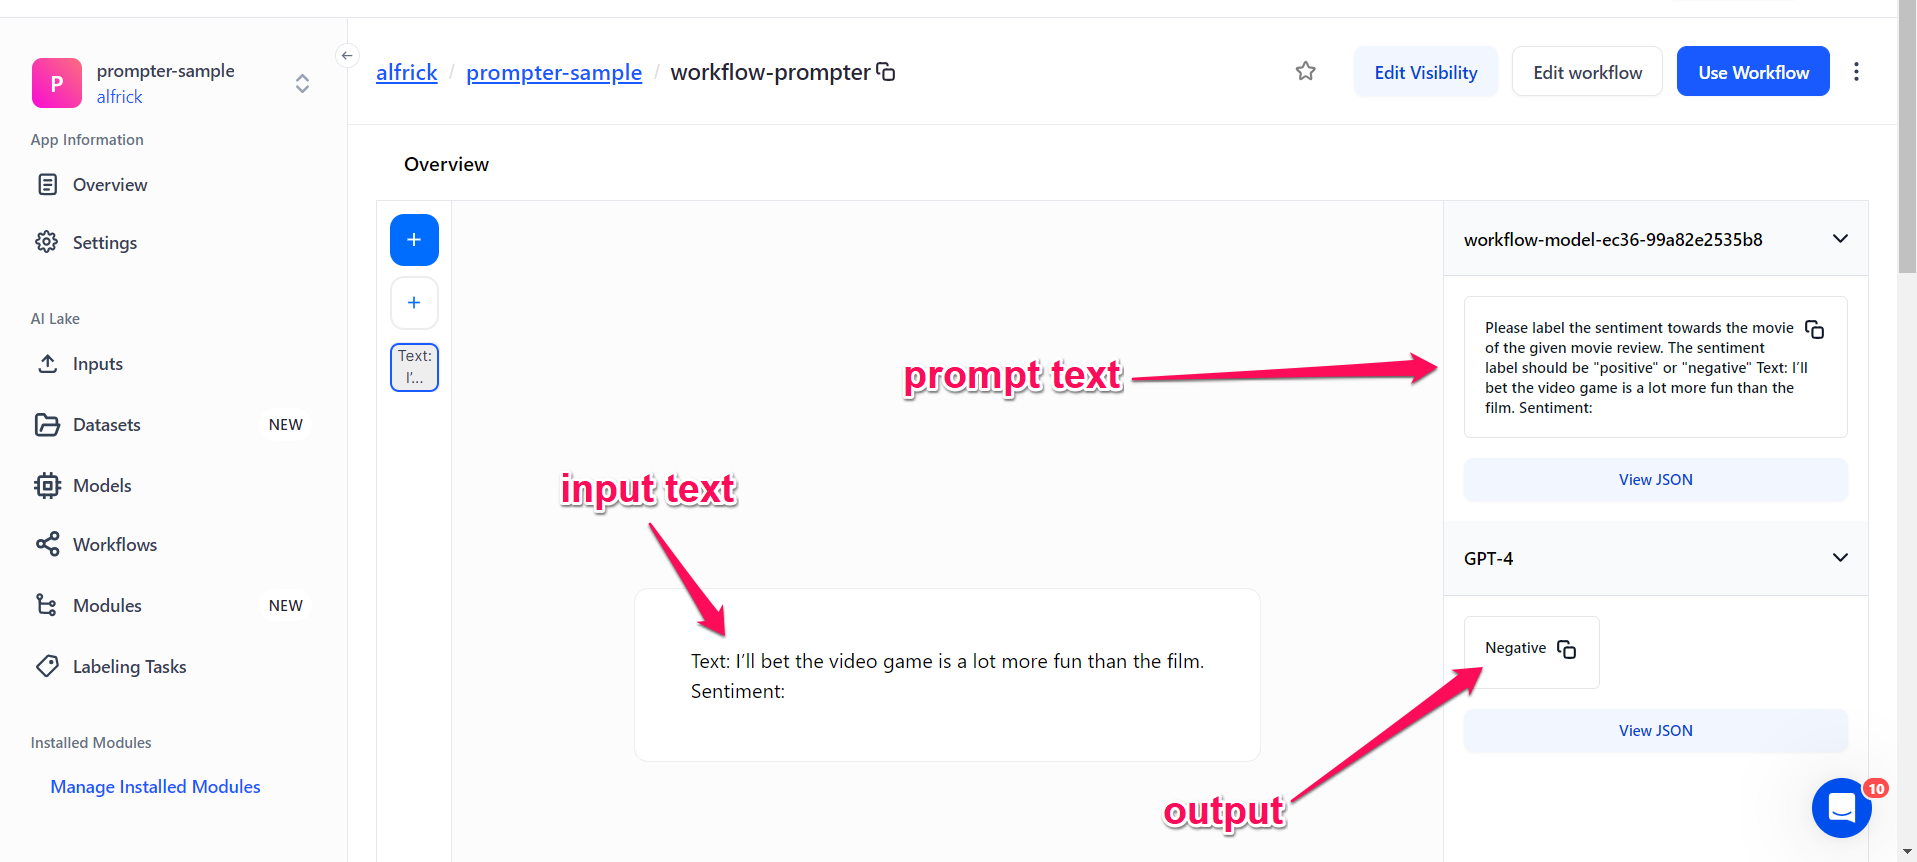
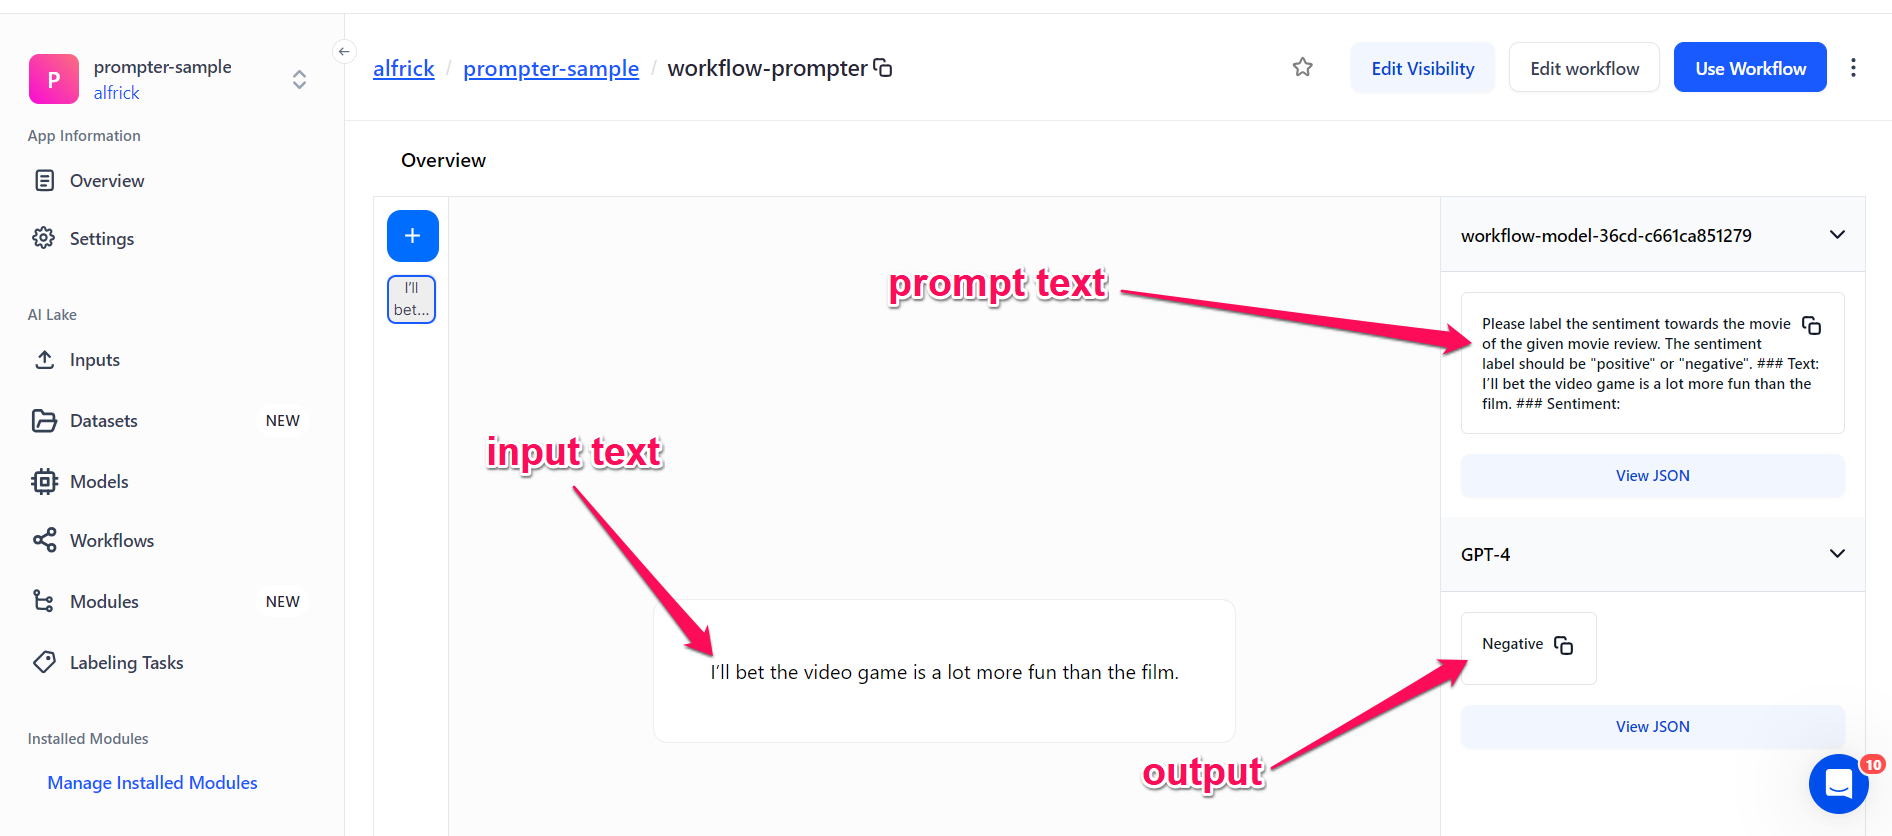
DOC-387 <updated prompter page>

diff --git a/docs/portal-guide/model/agent-system-operators/prompter.md b/docs/portal-guide/model/agent-system-operators/prompter.md
@@ -39,12 +39,16 @@ Your prompt template should include at least one instance of the placeholder `{d
 **2.** Use the pop-up that appears on the right-hand sidebar to define the template text. For this example, let’s use the following text: 
 
 ```
-Please label the sentiment towards the movie of the given movie review. The sentiment label should be "positive" or "negative" {data.text.raw}
+Please label the sentiment towards the movie of the given movie review. The sentiment label should be "positive" or "negative". ### Text: {data.text.raw} ### Sentiment: 
 ```
 
 ![zero-shot prompting](/img/agent-system-operators/prompter_1.png)
 
-Note that we also include the `{data.text.raw}` placeholder to meet the requirements of the **Prompter** template.
+Note that:
+
+- The template text is a single-line statement.
+- We included the `{data.text.raw}` placeholder to meet the requirements of the **Prompter** template.
+- We placed the instructions at the beginning of the template text and used the ["###" delimiter](https://docs.clarifai.com/portal-guide/model/model-types/text-to-text/#training-data) to separate the instruction and context. The delimiter is important when giving instructions to llms because it signifies the beginning and end of different sections within the text. This ensures clarity and facilitates easy parsing and processing during the prediction phase.
 
 **3.** You can then connect the prompter model to a text-to-text model like [GPT-4](https://clarifai.com/openai/chat-completion/models/GPT-4).
 
@@ -55,8 +59,7 @@ To observe it in action, navigate to the workflow's individual page and click th
 For example, you could input the following as your input text:
 
 ```
-Text: I’ll bet the video game is a lot more fun than the film.
-Sentiment: 
+I’ll bet the video game is a lot more fun than the film
 ``` 
 
 Click the **Submit** button.
@@ -66,7 +69,7 @@ Once the model has completed processing your input, you'll see the results, star
 In this case, the prompt text becomes:
 
 ```
-Please label the sentiment towards the movie of the given movie review. The sentiment label should be "positive" or "negative" Text: I’ll bet the video game is a lot more fun than the film. Sentiment: 
+Please label the sentiment towards the movie of the given movie review. The sentiment label should be "positive" or "negative". ### Text: I’ll bet the video game is a lot more fun than the film. ### Sentiment: 
 ```
 
 And the output becomes:
@@ -74,7 +77,9 @@ And the output becomes:
 ```
 Negative
 ```
+
 ![zero-shot prompting output](/img/agent-system-operators/prompter_2.png)
+
 
 Note that in the above zero-shot prompt, we did not give the model any examples of text alongside their classifications. The model already knows what "sentiment" means without needing any extra information—that's how its zero-shot abilities work. 
 
@@ -88,12 +93,6 @@ For example, few-shot prompting can be used to train an LLM to classify new type
 
 Let’s demonstrate how you can create a few-shot prompter on the [workflow builder](https://docs.clarifai.com/portal-guide/workflows/workflow-builder/) for a text classification task. 
 
-:::tip
-
-Your prompt template should include at least one instance of the placeholder `{data.text.raw}`. When you input your text data at inference time, all occurrences of `{data.text.raw}` within the template will be replaced with the provided text.
-
-:::
-
 **1.** Search for the **Prompter** template option in the left-hand sidebar of the workflow builder and drag it onto the empty workspace.
 
 **2.** Use the pop-up that appears on the right-hand sidebar to define the template text.
@@ -101,20 +100,12 @@ Your prompt template should include at least one instance of the placeholder `{d
 For this example, let’s use the following text:
 
 ```
-Please label the sentiment towards the movie of the given movie review. The sentiment label should be "positive" or "negative".
-Text: (lawrence bounces) all over the stage, dancing, running, sweating, mopping his face and generally displaying the wacky talent that brought him fame in the first place.
-Sentiment: positive
-
-Text: despite all evidence to the contrary, this clunker has somehow managed to pose as an actual feature movie, the kind that charges full admission and gets hyped on tv and purports to amuse small children and ostensible adults.
-Sentiment: negative
-
-Text: for the first time in years, de niro digs deep emotionally, perhaps because he's been stirred by the powerful work of his co-stars.
-Sentiment: positive
-\n{data.text.raw}
+Please label the sentiment towards the movie of the given movie review. The sentiment label should be "positive" or "negative". ### Text: (lawrence bounces) all over the stage, dancing, running, sweating, mopping his face and generally displaying the wacky talent that brought him fame in the first place. ### Sentiment: positive. ### Text: Despite all evidence to the contrary, this clunker has somehow managed to pose as an actual feature movie, the kind that charges full admission and gets hyped on tv and purports to amuse small children and ostensible adults. ### Sentiment: negative. ### Text: For the first time in years, de niro digs deep emotionally, perhaps because he's been stirred by the powerful work of his co-stars. ### Sentiment: positive. ### Text: {data.text.raw} ### Sentiment:
 ```
+
 ![few-shot prompting](/img/agent-system-operators/prompter_4.png)
 
-Note that we also include the `{data.text.raw}` placeholder to meet the requirements of the **Prompter** template.
+Note that just like in the zero-shot prompting example above, we included the `{data.text.raw}` placeholder and the "###" delimiter in the template text. 
 
 **3.** You can then connect the prompter model to a text-to-text model like [GPT-4](https://clarifai.com/openai/chat-completion/models/GPT-4).
 
@@ -125,8 +116,7 @@ To observe it in action, navigate to the workflow's individual page and click th
 For example, you could input the following as your input text:
 
 ```
-Text: I'll bet the video game is a lot more fun than the film.
-Sentiment:
+I'll bet the video game is a lot more fun than the film
 ```
 Click the **Submit** button.
 
@@ -135,13 +125,14 @@ Once the model has completed processing your input, you'll see the results, star
 In this case, the prompter text becomes:
 
 ```
-Please label the sentiment towards the movie of the given movie review. The sentiment label should be "positive" or "negative". Text: (lawrence bounces) all over the stage, dancing, running, sweating, mopping his face and generally displaying the wacky talent that brought him fame in the first place. Sentiment: positive Text: despite all evidence to the contrary, this clunker has somehow managed to pose as an actual feature movie, the kind that charges full admission and gets hyped on tv and purports to amuse small children and ostensible adults. Sentiment: negative Text: for the first time in years, de niro digs deep emotionally, perhaps because he''s been stirred by the powerful work of his co-stars. Sentiment: positive \nText: I'll bet the video game is a lot more fun than the film. Sentiment:
+Please label the sentiment towards the movie of the given movie review. The sentiment label should be "positive" or "negative". ### Text: (lawrence bounces) all over the stage, dancing, running, sweating, mopping his face and generally displaying the wacky talent that brought him fame in the first place. ### Sentiment: positive. ### Text: Despite all evidence to the contrary, this clunker has somehow managed to pose as an actual feature movie, the kind that charges full admission and gets hyped on tv and purports to amuse small children and ostensible adults. ### Sentiment: negative. ### Text: For the first time in years, de niro digs deep emotionally, perhaps because he''s been stirred by the powerful work of his co-stars. ### Sentiment: positive. ### Text: I'll bet the video game is a lot more fun than the film ### Sentiment:
 ```
 And the output becomes:
 
 ```
 negative
 ```
+
 ![few-shot prompting output](/img/agent-system-operators/prompter_3.png)
 
 Note that in the above few-shot prompt, we provided a few examples to guide the model to perform better. The demonstrations enabled in-context learning and acted as conditioning for successive examples in which we wanted the model to produce a response we desired. 
@@ -154,40 +145,32 @@ The prompt template can be used for a variety of prompting methods. Let's delve 
 
 ## Task-Specific Prompt
 
-Here is an example of a text classification task with a task-specific prompt. 
+Here is an example of a text classification task with a task-specific prompt.
 
 ```
-Human: You are a customer service agent that is classifying emails by type.
-
-Input:
-<email>
-Hi -- My Mixmaster4000 is producing a strange noise when I operate it. It also smells a bit smoky and plasticky, like burning electronics.  I need a replacement.
-</email>
-
-Categories are:
-(A) Pre-sale question
-(B) Broken or defective item
-(C) Billing question
-(D) Other (please explain)
-
-Assistant: My answer is (
-
-Response: B) Broken or defective item
+### Instruction: You are a customer service agent that is classifying emails by type. ### Input: <email> Hi -- My Mixmaster4000 is producing a strange noise when I operate it. It also smells a bit smoky and plasticky, like burning electronics.  I need a replacement. </email> Categories are: (A) Pre-sale question (B) Broken or defective item (C) Billing question (D) Other (please explain) ### Assistant: My answer is (
 ```
-## Translation
-
-Here is an example of a prompt for a text translation task. 
-
-```
-Instruction:
-{Translate the following phrase into French}
-
-Input: 
-{I miss you}
 
 Response:
-{Je te manque}
+
 ```
+B) Broken or defective item
+```
+
+## Translation
+
+Here is an example of a prompt text for a text translation task.
+
+```
+Below is an instruction that describes a task, paired with an input that provides further context. Write a response that appropriately completes the request. ### Instruction: Translate the following phrase into French. ### Input: I miss you ### Response: 
+```
+
+Response:
+
+```
+Je te manque
+```
+
 ## Pre-Encoded Knowledge QA
 
 This involves utilizing the model's built-in pre-encoded knowledge base to respond to questions. The model is provided with a large collection of facts and relationships, which it uses to generate answers when given prompts or questions.
@@ -197,11 +180,13 @@ The pre-existing knowledge base equips the model with the ability to answer ques
 Here is an example. 
 
 ```
-Instruction: 
-{What did Albert Einstein win the Nobel Prize for?}
+Below is an instruction that describes a task. Write a response that appropriately completes the request. ### Instruction: How did Julius Caesar die? ### Response: 
+```
 
 Response: 
-{The law of the photoelectric effect}
+
+```
+Julius Caesar was assassinated by a group of up to 60 conspirators, led by Gaius Cassius Longinus and Marcus Junius Brutus, in the Senate House on the Ides of March (15 March) of 44 BC.
 ```
 
 ## Close-Book QA
@@ -213,19 +198,7 @@ This stands in contrast to open-book QA, where the LLM can access and process ex
 Here is an example of a close-book QA with a model specific prompt. 
 
 ```
-Below is a document, followed by a question.  Answer the question using information in the document.  Respond using only information in the document below.  Do not provide any other information that is not in the docuemnt.
-
-Input:
-
-{{DOCUMENT}}
-
-Instruction:
-
-{{QUESTION}}
-
-Response: 
-
-{{ANSWER}}
+Below is a document, followed by a question.  Answer the question using information in the document.  Respond using only information in the document below.  Do not provide any other information that is not in the document. ### Input: {{DOCUMENT}} ### Instruction: {{QUESTION}} ### Response: 
 ```
 
 ## Text Extraction 
@@ -233,13 +206,6 @@ Response:
 Here is an example of a prompt for a text extraction task. 
 
 ```
-Please precisely copy any email addresses from the following text 
-and then write them, one per line. Only write an email address if it's precisely spelled out in the input text. 
-If there are no email addresses in the text, write "N/A". Do not say anything else.
-
-Input:
-{{TEXT}}
-
-Response:
+Please precisely copy any email addresses from the following text and then write them, one per line. Only write an email address if it's precisely spelled out in the input text. If there are no email addresses in the text, write "N/A". Do not say anything else. ### Input: {{TEXT}}. ### Response:
 ```
 
